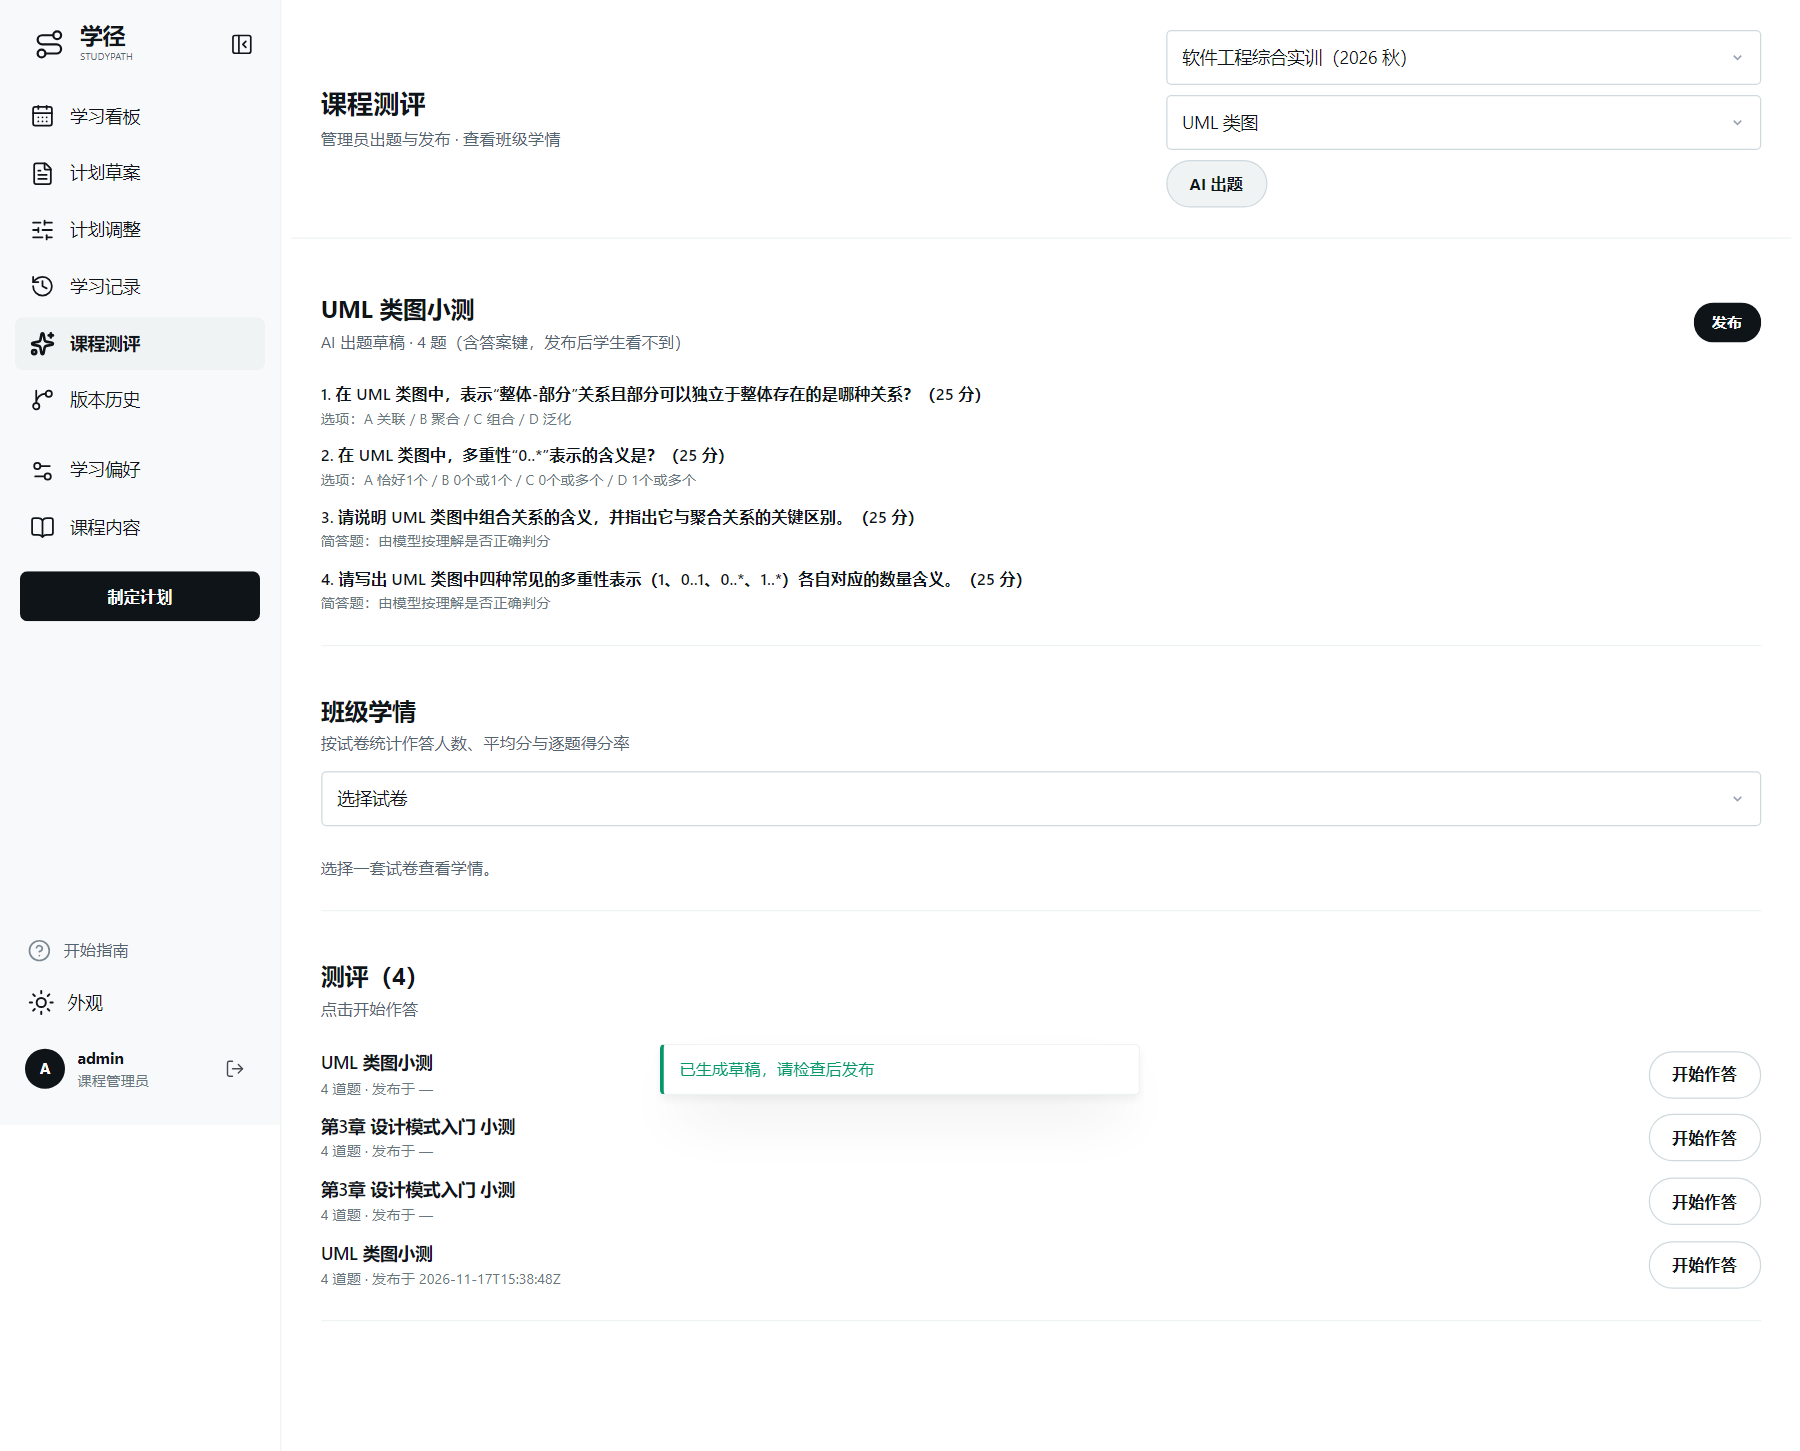
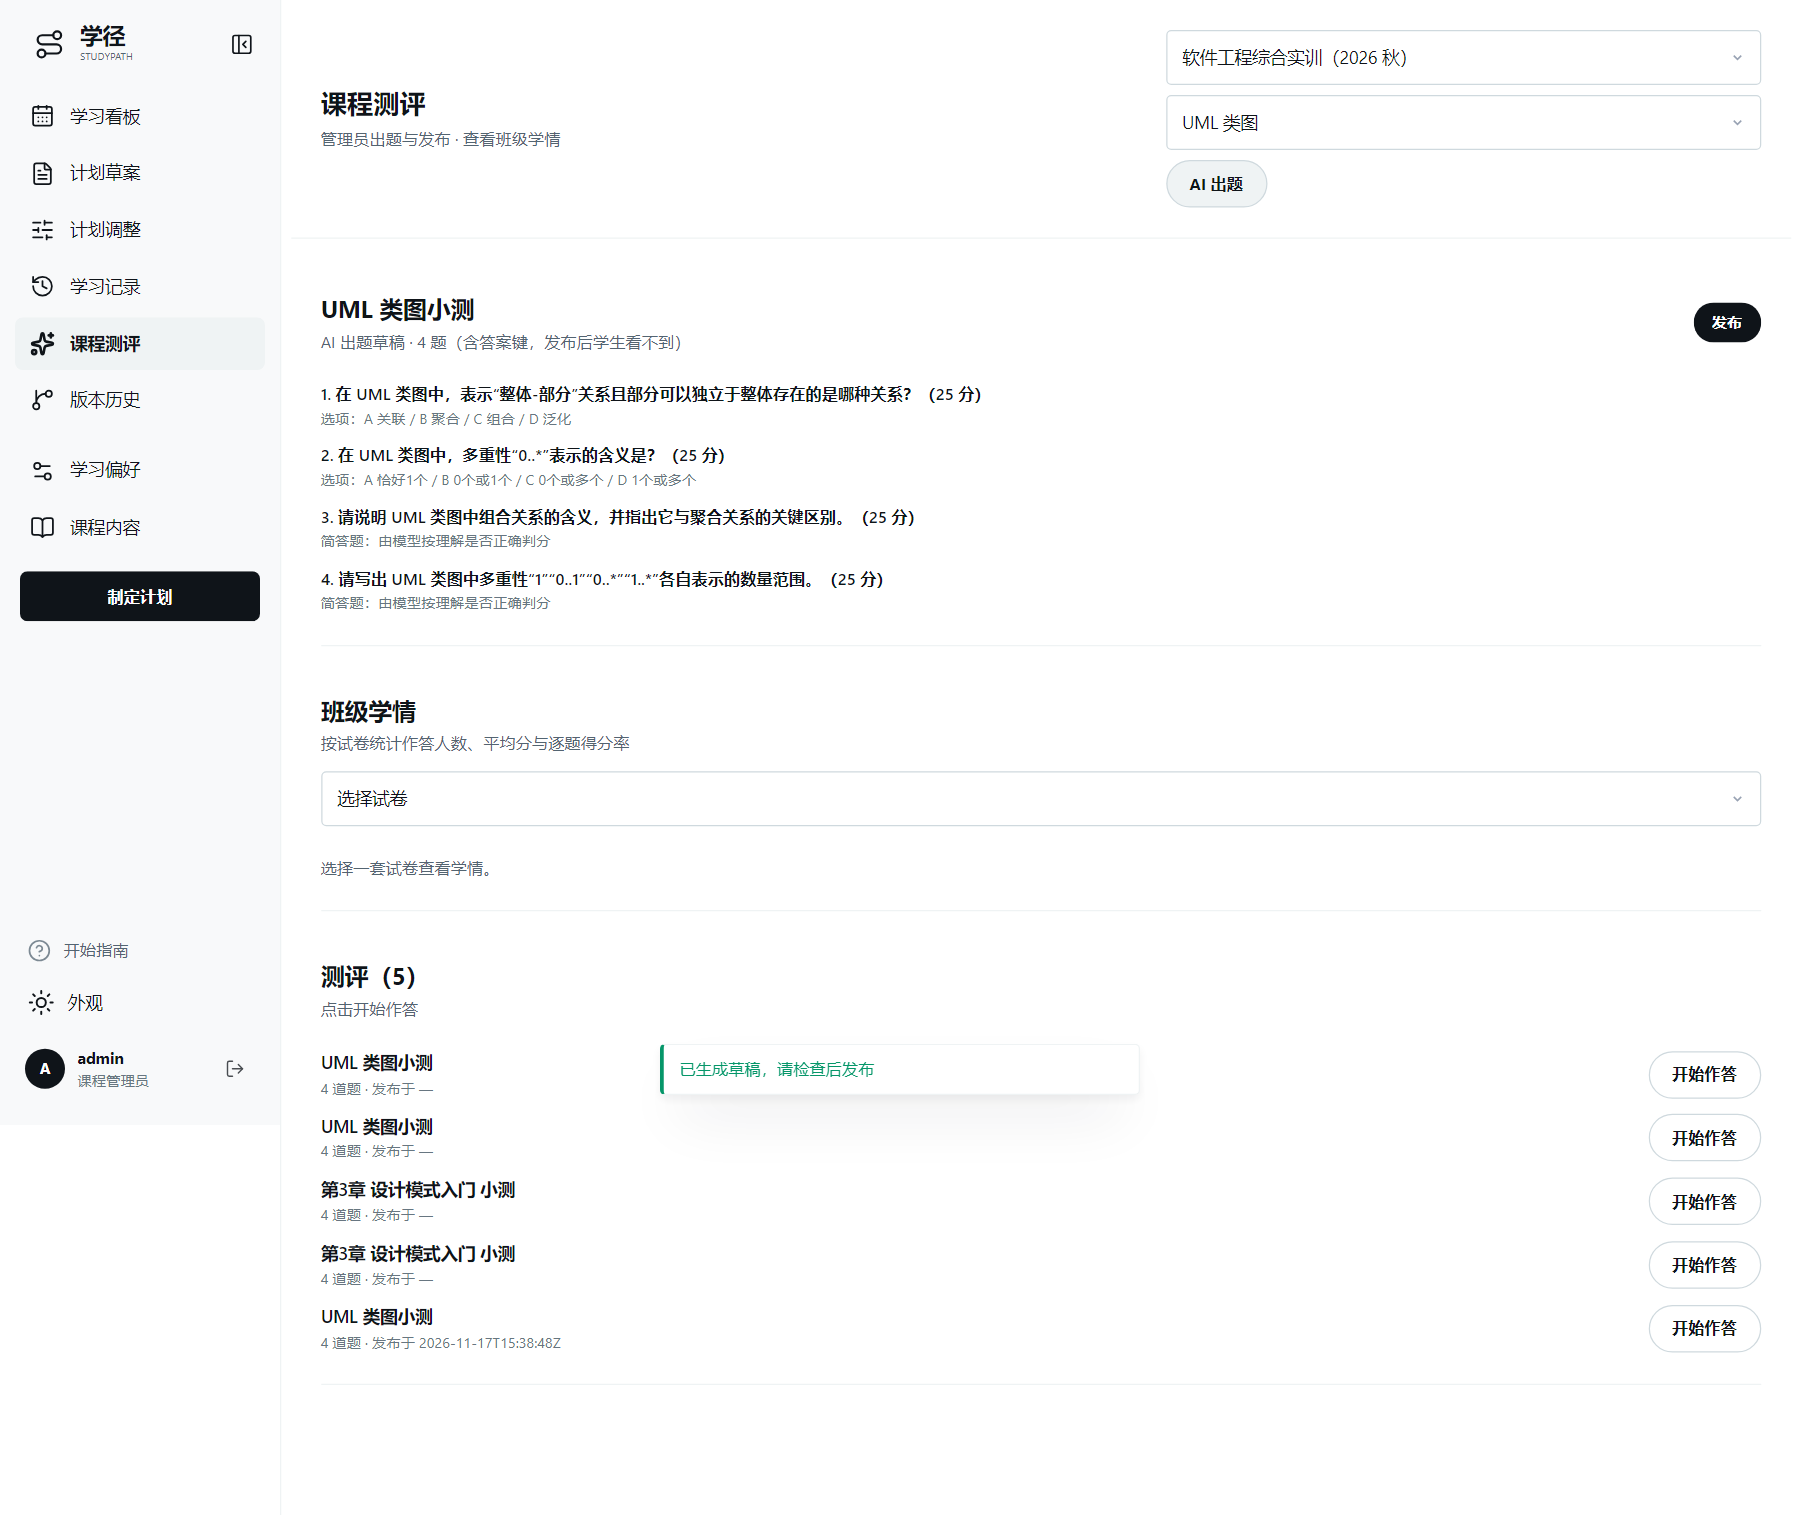
fix(assessment): 选择题报告不再显示「引用原话」（你的选择/正确答案已单独展示）

diff --git a/frontend/src/pages/AssessmentPage.tsx b/frontend/src/pages/AssessmentPage.tsx
@@ -384,7 +384,7 @@ export function AssessmentPage() {
                       </p>
                     ) : null}
 
-                    {detail.quotes && detail.quotes.length ? (
+                    {detail.type !== "single" && detail.quotes && detail.quotes.length ? (
                       <p className="report-line">
                         <span className="row-sub">引用原话：</span>
                         {detail.quotes.join(" / ")}

diff --git a/backend/app/services/assessment.py b/backend/app/services/assessment.py
@@ -171,7 +171,8 @@ def _grade_single(item: Dict[str, Any], answer: str) -> Dict[str, Any]:
         "got": item["points"] if correct else 0,
         "hits": item["rubric"][:1] if correct else [],
         "misses": [] if correct else item["rubric"][:1],
-        "quotes": [] if correct else [picked or "（未作答）"],
+        # 选择题没有"原话"可引：你的选择已经单独展示，这里保持空列表
+        "quotes": [],
         "confidence": 1.0, "review_flag": 0,
     }
 
